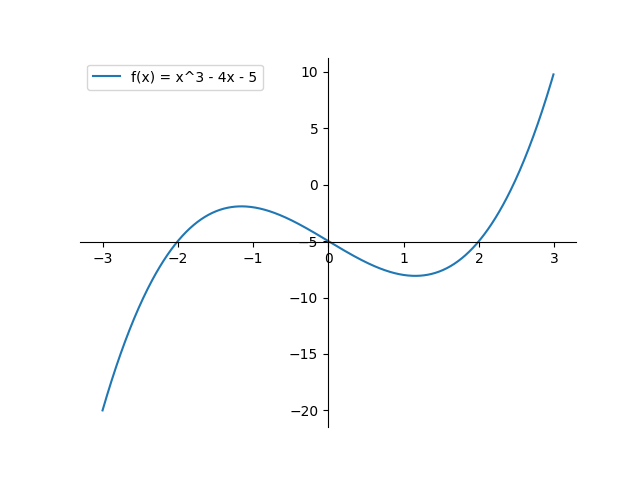
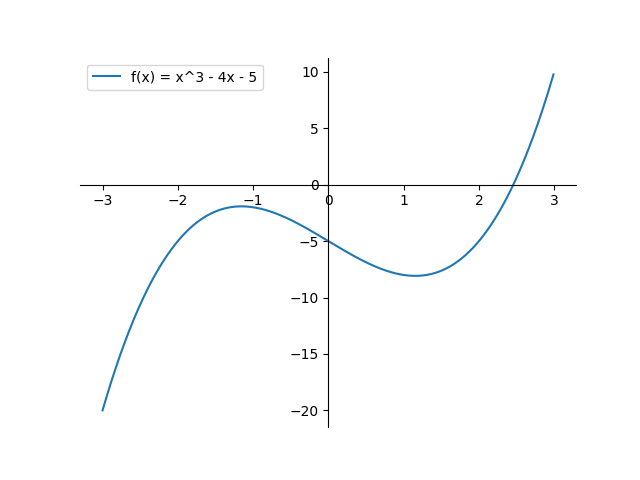
parallel root finding [wip ]

diff --git a/pages/parallel-root-finding-using-sycl-dpcpp.html b/pages/parallel-root-finding-using-sycl-dpcpp.html
@@ -130,6 +130,56 @@
  10
  >>> assert f(a) * f(b) < 0 # satisfied 👍
                 </div>
+                <p class="blogText">
+                    Evaluating f(x) at m = (-3 + 3) / 2 = 0, results in -5. I see f(a) * f(m) < 0
+                    evaluates to false, it's clear <b>z</b> must lie in interval (m, b) = (0, 3). In next iteration
+                    (a, b) = (0, 3) so m = 1.5. Evaluating f(0) * f(1.5) = -5 * -7.625 < 0, results in negative
+                    result, clearly <b>z</b> must be lying in interval (m, b) = (1.5, 3). In next iteration,
+                    a = 1.5, b = 3, m = 2.25, evaluation of f(1.5) * f(2.25) = -7.625 * -2.609375 < 0, hints
+                    root of equation f(x) i.e. <b>z</b> must be lying in inteval (2.25, 3). This way I keep trying
+                    to decrease width of interval until it goes below 10<sup>-5</sup>.
+                    <br>
+                    <br>
+                    Looking at above plot of f(x), I discover bisection method is progressing towards correct direction.
+                    Because plot says somewhere between (2, 3) root lies & I just found myself it must be somewhere between (2.25, 3).
+                    If I keep exploring for few more iterations I belive it must lead me to better approximated result.
+                    Instead of manually doing, I collect runlog of bisection method implementation.
+                    <br>
+                    <br>
+                    In final iteration it says root must lie in (2.4566689, 2.4566803). As evaluation of f(a) * f(m) < 0
+                    turns out to be negative, clearly solution must be in interval (m, b), where m = (2.4566689 + 2.4566803) / 2 = 2.4566746.
+                    Before moving to next iteration, I notice <b>|b-a|</b> has reached below 10<sup>-5</sup>, which denotes
+                    I must terminate algorithm now.
+                    <br>
+                    <br>
+                    Approximated root of f(x) = 2.4566746, with error 10<sup>-5</sup>.
+                </p>
+                <div class="microlight">
+a                       b                       m                       f(a)                    f(m)
+
+-3                      3                       0                       -20                     -5                  
+0                       3                       1.5                     -5                      -7.625              
+1.5                     3                       2.25                    -7.625                  -2.609375           
+2.25                    3                       2.625                   -2.609375               2.5878906           
+2.25                    2.625                   2.4375                  -2.609375               -0.26782227         
+2.4375                  2.625                   2.53125                 -0.26782227             1.0932922           
+2.4375                  2.53125                 2.484375                -0.26782227             0.3963585           
+2.4375                  2.484375                2.4609375               -0.26782227             0.06021309          
+2.4375                  2.4609375               2.4492188               -0.26782227             -0.104813576        
+2.4492188               2.4609375               2.4550781               -0.104813576            -0.022553444        
+2.4550781               2.4609375               2.4580078               -0.022553444            0.018766403         
+2.4550781               2.4580078               2.456543                -0.022553444            -0.0019102097       
+2.456543                2.4580078               2.4572754               -0.0019102097           0.008424759         
+2.456543                2.4572754               2.4569092               -0.0019102097           0.0032567978        
+2.456543                2.4569092               2.456726                -0.0019102097           0.00067329407       
+2.456543                2.456726                2.4566345               -0.0019102097           -0.00061798096      
+2.4566345               2.456726                2.4566803               -0.00061798096          0.00002861023       
+2.4566345               2.4566803               2.4566574               -0.00061798096          -0.00029468536      
+2.4566574               2.4566803               2.4566689               -0.00029468536          -0.0001335144       
+2.4566689               2.4566803               2.4566746               -0.0001335144           -0.000052452087     
+
+root: 2.4566746, found in 3.354849ms
+                </div>
             </article>
         </div>
     </div>
